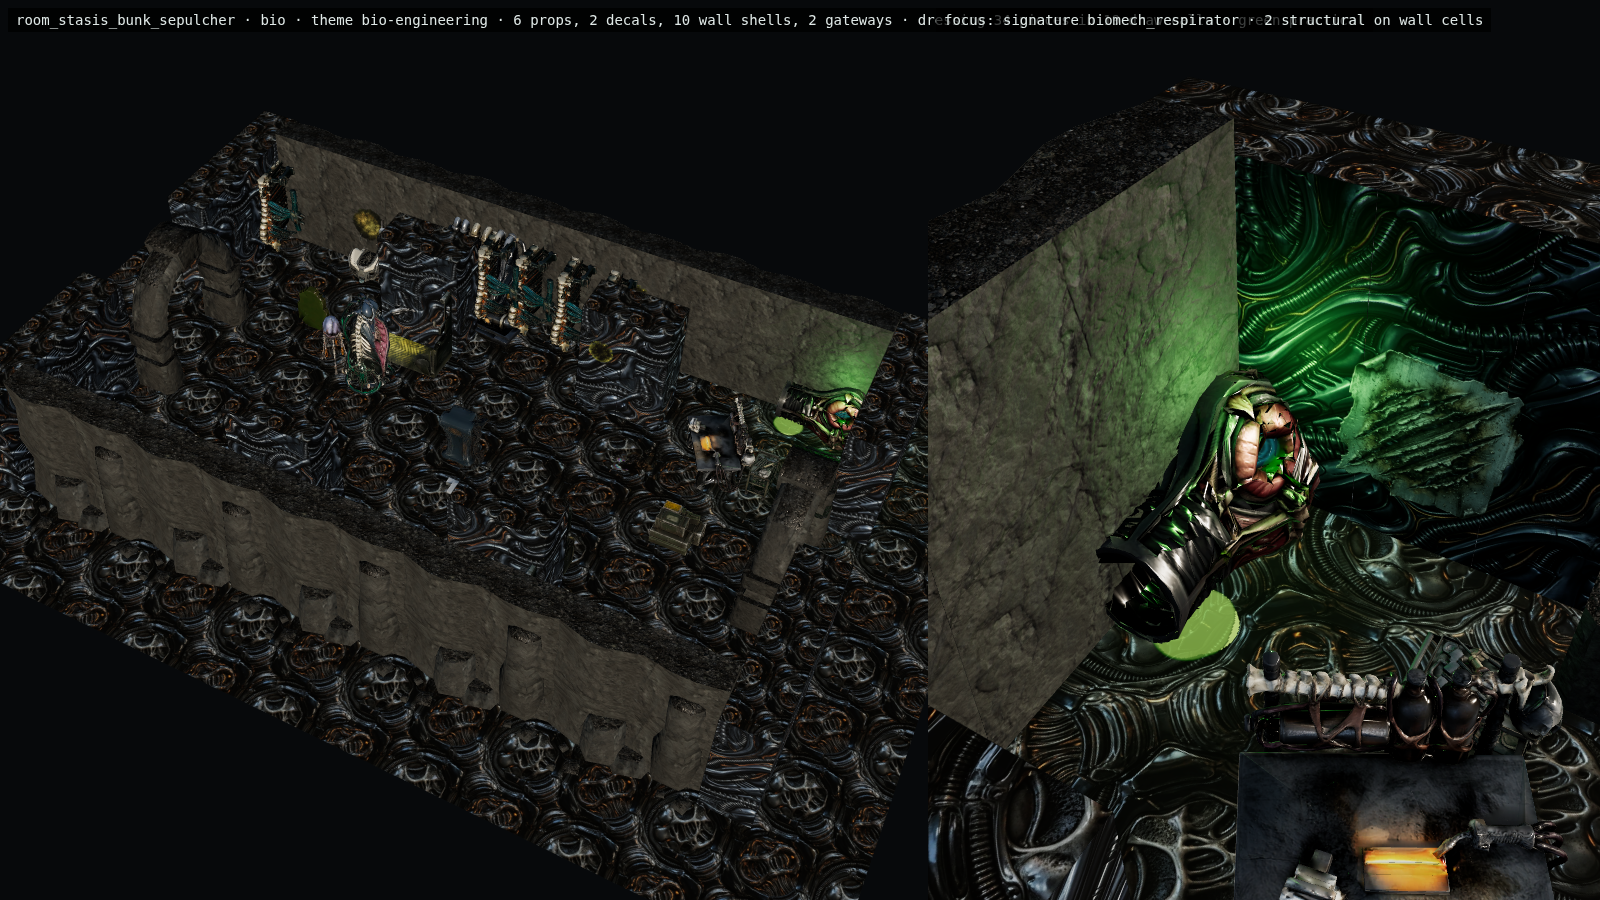
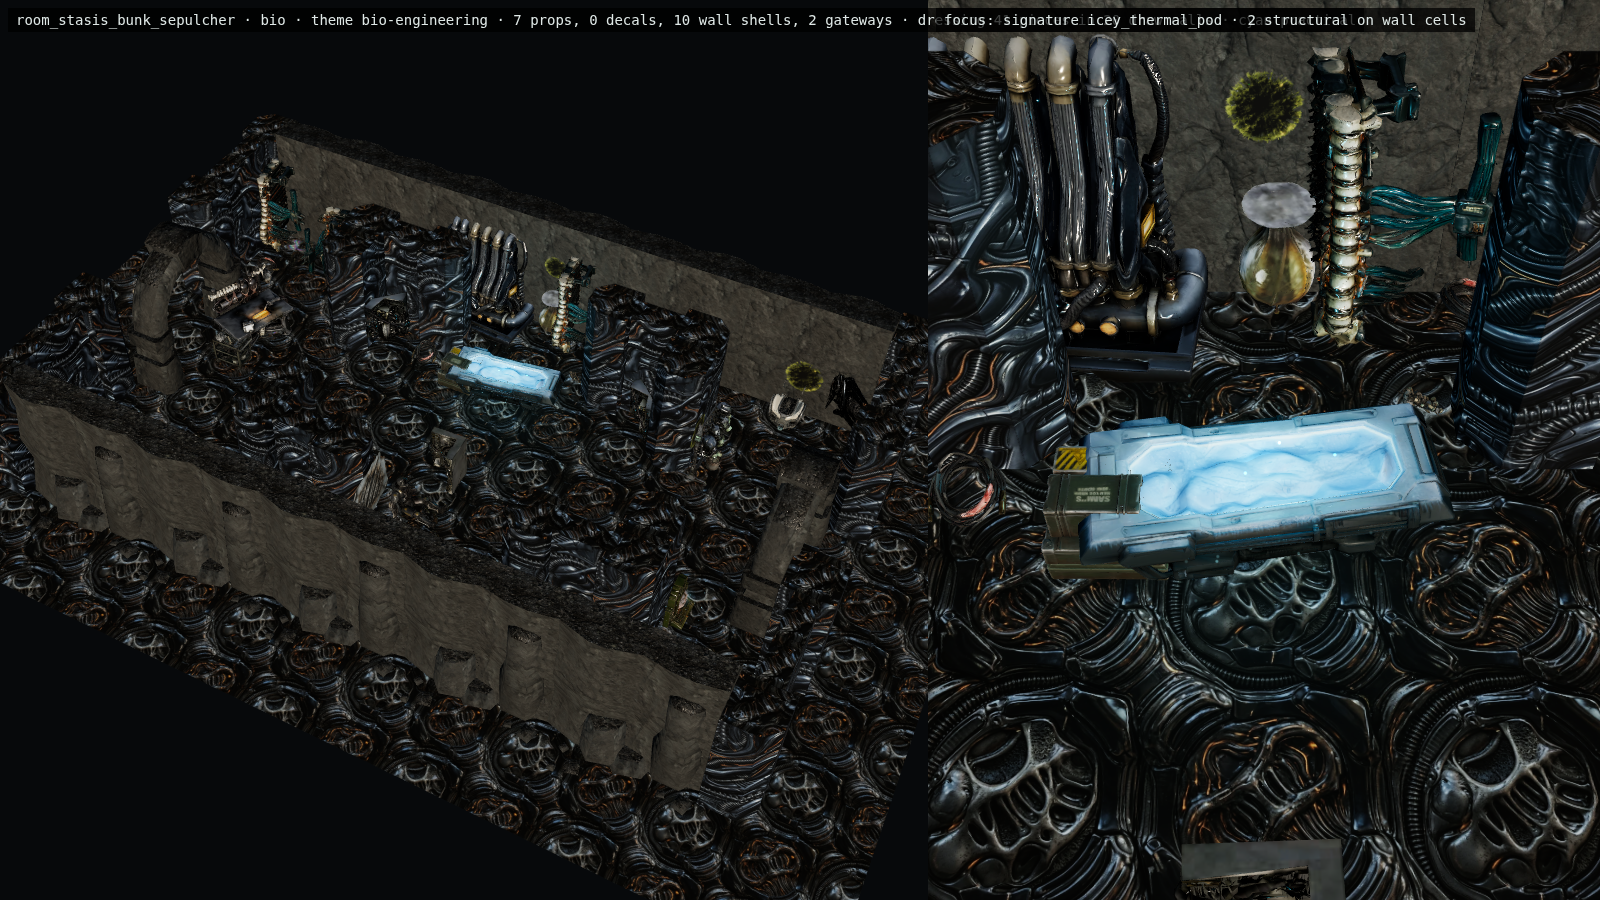
feat(levels): make stasis a quiet inspection spine

diff --git a/src/data/cathedralBlueprints.js b/src/data/cathedralBlueprints.js
@@ -289,12 +289,18 @@ export const CATHEDRAL_ROOM_BLUEPRINTS = Object.freeze([
         id: 'room_stasis_bunk_sepulcher',
         family: 'fabricator',
         themeStyle: 'giger',
+        // P1 quiet-release proof: an offset sleeping comb frames a completely
+        // open three-cell inspection spine. Shallow north/south niches invite
+        // observation without turning the room into another forced puzzle.
         pattern: buildPattern(15, 9, [
-            // Pod divider buttresses along north and south walls
-            { x: 4, y: 1, w: 2, h: 1 },
-            { x: 9, y: 1, w: 2, h: 1 },
-            { x: 4, y: 7, w: 2, h: 1 },
-            { x: 9, y: 7, w: 2, h: 1 }
+            { x: 3, y: 1, w: 3, h: 1 },
+            { x: 9, y: 1, w: 3, h: 1 },
+            { x: 3, y: 2, w: 1, h: 1 },
+            { x: 11, y: 2, w: 1, h: 1 },
+            { x: 4, y: 6, w: 1, h: 1 },
+            { x: 12, y: 6, w: 1, h: 1 },
+            { x: 4, y: 7, w: 3, h: 1 },
+            { x: 10, y: 7, w: 3, h: 1 }
         ]),
         sockets: [
             { id: 'entry', side: 'w', width: 3, required: true },
@@ -305,19 +311,25 @@ export const CATHEDRAL_ROOM_BLUEPRINTS = Object.freeze([
         biomeEligibility: ['active', 'cryo', 'bio'],
         roles: ['support', 'questDestination'],
         structuralAnchors: [
-            { id: 'stasis_rack_north', type: 'prop_exosuit_docking_gantry', x: 4, y: 1 },
-            { id: 'stasis_rack_south', type: 'prop_exosuit_docking_gantry', x: 9, y: 7 }
+            { id: 'stasis_rack_north', type: 'prop_flesh_steel_cradle', x: 4, y: 1 },
+            { id: 'stasis_rack_south', type: 'prop_flesh_steel_cradle', x: 11, y: 7 }
         ],
         interactionAnchors: [
-            { id: 'chrysalis_pod_console', type: 'prop_liturgical_terminal_lectern', x: 7, y: 4 }
+            { id: 'chrysalis_pod_console', type: 'prop_icey_thermal_pod', x: 7, y: 2 }
         ],
+        signatureAnchorId: 'chrysalis_pod_console',
         compassAnchors: { approach: 'entry', objective: 'chrysalis_pod_console' },
-        coverZones: [{ x: 3, y: 1, w: 4, h: 2 }, { x: 8, y: 6, w: 4, h: 2 }],
+        coverZones: [{ x: 3, y: 1, w: 4, h: 2 }, { x: 9, y: 6, w: 4, h: 2 }],
         encounterZones: [],
-        rewardAnchors: [{ id: 'scavenged_ration_cache', type: 'prop_bunker_supplies', x: 12, y: 4 }],
-        loreAnchors: [{ id: 'sepulcher_survivor_slate', type: 'lore_terminal', x: 2, y: 2 }],
+        // Supplies and the final slate share one optional southeast survivor
+        // pocket, leaving the threshold and inspection spine visually calm.
+        rewardAnchors: [{ id: 'scavenged_ration_cache', type: 'prop_bunker_supplies', x: 11, y: 6 }],
+        loreAnchors: [{ id: 'sepulcher_survivor_slate', type: 'lore_terminal', x: 13, y: 6 }],
         hazardZones: [],
-        quietZones: [{ x: 0, y: 0, w: 15, h: 9 }],
+        quietZones: [
+            { x: 0, y: 3, w: 15, h: 3 },
+            { x: 6, y: 1, w: 3, h: 3 }
+        ],
         safeZone: true,
         containmentBounds: { minX: 0, minY: 0, maxX: 14, maxY: 8 },
         presentationVariants: ['huddled', 'abandoned', 'dormant'],

diff --git a/src/cathedralBlueprints.test.js b/src/cathedralBlueprints.test.js
@@ -68,6 +68,32 @@ describe('CATHEDRAL_ROOM_BLUEPRINTS', () => {
         expect(nave.encounterZones[0]).toMatchObject({ x: 7, y: 5, w: 7, h: 4 });
     });
 
+    it('gives the stasis sepulcher a clear inspection spine and optional pod/story niches', () => {
+        const stasis = CATHEDRAL_ROOM_BLUEPRINTS.find((build) => build.id === 'room_stasis_bunk_sepulcher');
+        expect(stasis.pattern).toEqual([
+            '...............',
+            '...###...###...',
+            '...#.......#...',
+            '...............',
+            '...............',
+            '...............',
+            '....#.......#..',
+            '....###...###..',
+            '...............'
+        ]);
+        for (let y = 3; y <= 5; y += 1) {
+            expect(stasis.pattern[y]).toBe('.'.repeat(15));
+        }
+        expect(computeApproachPoint(stasis)).toEqual({ x: 2, y: 4 });
+        expect(stasis.signatureAnchorId).toBe('chrysalis_pod_console');
+        expect(stasis.interactionAnchors).toContainEqual(expect.objectContaining({
+            id: 'chrysalis_pod_console', type: 'prop_icey_thermal_pod', x: 7, y: 2
+        }));
+        expect(stasis.structuralAnchors.every((anchor) => stasis.pattern[anchor.y][anchor.x] === '#')).toBe(true);
+        expect(stasis.rewardAnchors[0]).toMatchObject({ x: 11, y: 6 });
+        expect(stasis.loreAnchors[0]).toMatchObject({ x: 13, y: 6 });
+    });
+
     it('proves all 8 cathedral blueprints are selectable from ALL_ROOM_BUILDS for live world generation', () => {
         for (const blueprint of CATHEDRAL_ROOM_BLUEPRINTS) {
             const selected = selectRoomBuild(ALL_ROOM_BUILDS, {

diff --git a/tests/e2e/probes/p1-stasis-gameplay-camera.spec.js b/tests/e2e/probes/p1-stasis-gameplay-camera.spec.js
@@ -1,0 +1,19 @@
+import { test, expect } from '@playwright/test';
+
+// P1 quiet-release proof: the inspection spine, failed-pod invitation and
+// survivor pocket must remain readable under every cardinal rotation.
+for (let rotation = 0; rotation < 4; rotation += 1) {
+    test(`P1 stasis game camera — R${rotation}`, async ({ page }) => {
+        await page.setViewportSize({ width: 1600, height: 900 });
+        await page.goto(`/tests/e2e/fixtures/furnished-room-showroom.html?build=room_stasis_bunk_sepulcher&biome=cryo&review=gameplay&rotation=${rotation}`);
+        await page.waitForFunction(() => window.__showroom?.ready === true, null, { timeout: 90_000 });
+        const result = await page.evaluate(() => window.__showroom);
+        expect(result.reviewMode).toBe(true);
+        expect(result.rotation).toBe(rotation);
+        expect(result.cutawayCells).toBeGreaterThan(0);
+        expect(result.props + result.decals).toBeGreaterThan(0);
+        await page.screenshot({
+            path: `docs/reports/assets/furnished-rooms/p1-stasis_bunk_sepulcher-game-camera-r${rotation}.png`
+        });
+    });
+}

diff --git a/docs/planning/n64-architectural-level-design-overhaul-2026-10-10.md b/docs/planning/n64-architectural-level-design-overhaul-2026-10-10.md
@@ -646,8 +646,15 @@ Route tests prove that either flank remains sufficient when the other is blocked
 orthographic rotation/cutaway captures live at
 `docs/reports/assets/furnished-rooms/p1-o2_scrubber-game-camera-r*.png`.
 
-P1 pacing order after this systemic room: `room_stasis_bunk_sepulcher` for quiet human-scale
-release, then `room_quarantine_airlock_threshold` for renewed compression.
+The second P1 proof is `room_stasis_bunk_sepulcher`. Its offset sleeping-comb walls preserve a
+fully open three-cell west/east inspection spine. The existing `chrysalis_pod_console` interaction
+is now represented by a real cyan thermal pod in a shallow north niche, visible from the threshold
+but optional to inspect. Low flesh-steel cradles replace tall exosuit gantries, while the ration
+cache and survivor slate form one southeast human-story pocket. Four rotation/cutaway captures
+live at `docs/reports/assets/furnished-rooms/p1-stasis_bunk_sepulcher-game-camera-r*.png`.
+
+Next P1 pacing proof: `room_quarantine_airlock_threshold` for renewed compression after the quiet
+stasis release.
 
 ### 9.6.2 Authored-geometry persistence gate
 
@@ -959,3 +966,6 @@ that, differently from §7.5's first idea of distant beacons, which this camera 
   bed and Tesla drive, and replaced the mandatory O2 room's generic block with a tested broken-ring
   repair route. Four O2 rotation captures pass. Authored-geometry persistence policy is explicit;
   the version gate remains implementation work.
+- 2026-10-11: Lane A rebuilt the stasis sepulcher as an offset sleeping comb with an open inspection
+  spine, real thermal-pod focal anchor, low cradle silhouettes, and one survivor story pocket. Four
+  cardinal gameplay-camera/cutaway captures pass.

diff --git a/docs/planning/world-design-doctrine-n64-lessons-2026-10-10.md b/docs/planning/world-design-doctrine-n64-lessons-2026-10-10.md
@@ -469,9 +469,16 @@ intake remains the service route. `o2_control` keeps its progression-critical id
 cyan focal practical. All four rotation/cutaway captures live at
 `docs/reports/assets/furnished-rooms/p1-o2_scrubber-game-camera-r*.png`.
 
-The next pacing proof is `room_stasis_bunk_sepulcher`, followed by
-`room_quarantine_airlock_threshold`: monumental nave → intimate human-scale release → compressed
-decontamination threshold.
+`room_stasis_bunk_sepulcher` is the second P1 proof and the intentional release after the nave.
+Its offset sleeping comb leaves a completely open three-cell west/east inspection spine. A real
+cyan thermal pod, using the existing `chrysalis_pod_console` interaction ID, invites a short
+northward inspection without blocking traversal; low flesh-steel cradles replace the tall exosuit
+gantries, and survivor supplies plus the final slate form one optional southeast story pocket.
+All four rotation/cutaway captures live at
+`docs/reports/assets/furnished-rooms/p1-stasis_bunk_sepulcher-game-camera-r*.png`.
+
+The next pacing proof is `room_quarantine_airlock_threshold`: monumental nave → intimate
+human-scale release → compressed decontamination threshold.
 
 ### Authored-geometry save policy
 
